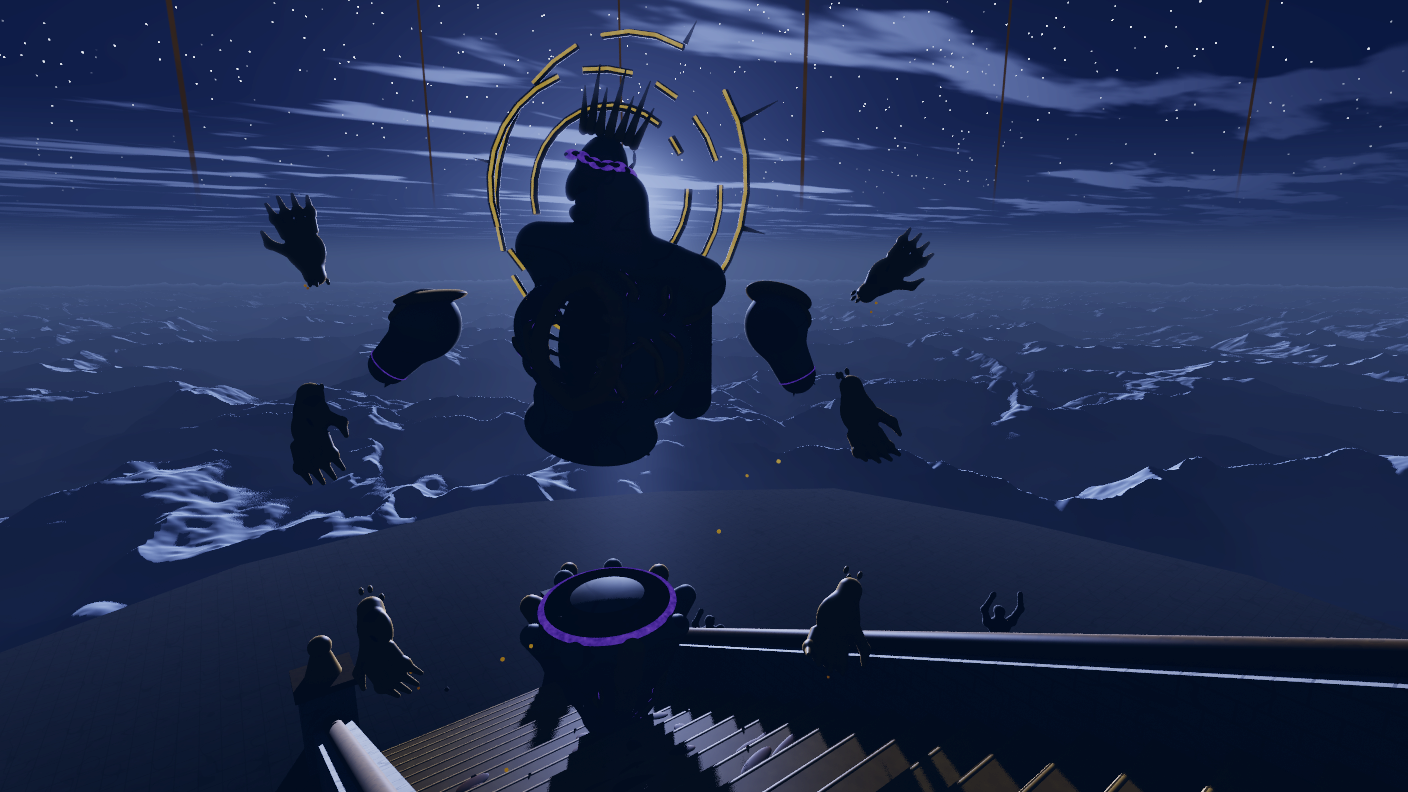
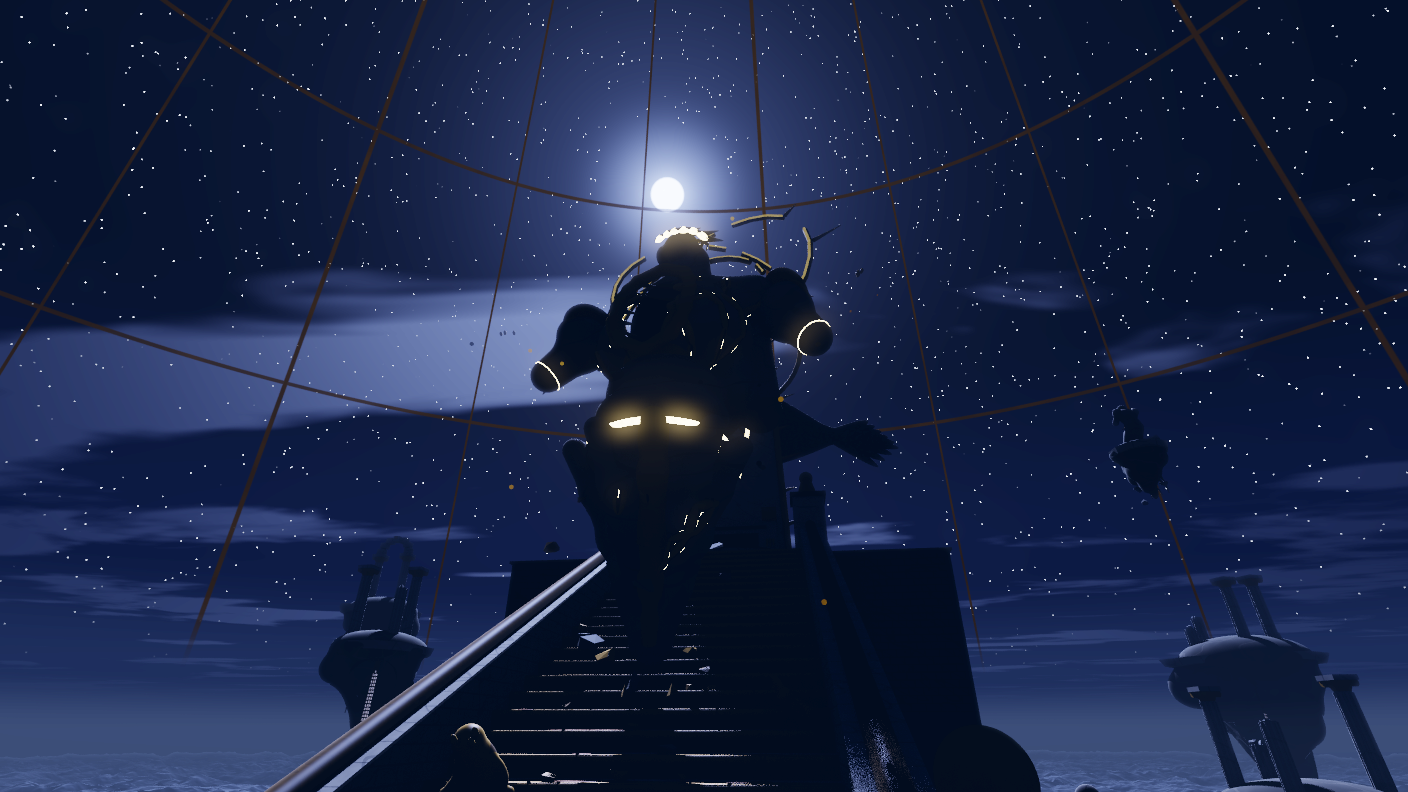
Cine 3D acto_7 pulido: Aun-Saar se parte sobre la escalinata y la Corona en el escalón
- p1_cae: el dios domina el cuadro desde abajo de la escalinata, a contraluz de la luna; grietas de luz tibia que
  lo recorren, pedazos de oro y mármol que se desprenden y caen a los escalones; las seis manos ya no orbitan (se
  sacan del modelo por la muñeca de oro viejo) y cuatro quedan tiradas en los escalones de abajo. La boca del
  pecho se apaga en su capa de luz.
- p2_corona: plano medio-bajo desde la escalinata: la Corona en el escalón 24 como sujeto central con su fuego
  bajito, la sangre dorada que corre por las tabicas hacia la cámara (regueros), el trono vacío en silueta
  detrás; sin piso a la vista.

Claude-Session: https://claude.ai/code/session_01JyeqgYaNCz4cU9RBqiqVkS

diff --git a/src/engine/gotico/cine3d_actos_c.ts b/src/engine/gotico/cine3d_actos_c.ts
@@ -81,6 +81,8 @@ M.a7_sangre = { rampa: ['#0c0101', '#1a0302', '#2a0604', '#3c0906', '#520e08', '
 M.a7_corona = { rampa: ['#1c1006', '#33200b', '#4e3412', '#6c4b1a', '#8c6424', '#ab7e30', '#c89a42', '#e2bb62'], ruido: 0.18, escala: 0.6, brillo: 1.2, patron: (p) => (Math.abs(Math.sin(p[2] * 2.6 + Math.sin(p[0] * 0.9) * 1.5)) < 0.08 ? -0.15 : 0) };
 M.a7_corona_ascua = { rampa: ['#5a1404', '#8a2a06', '#b84a0e', '#e07a1e', '#ffaa40'], ruido: 0.4, escala: 0.8, emite: true };
 /** La Brasa en el pecho del rey de ceniza: rojo hondo que late. */
+/** La sangre del rey de ceniza: roja honda que arde apenas, como la Brasa (se ve correr de noche). */
+M.a7_sangre_ascua = { rampa: ['#1a0201', '#2e0402', '#460804', '#600c05', '#7a1206'], ruido: 0.3, escala: 0.5, emite: true };
 M.a7_brasa = { rampa: ['#3a0602', '#6a0e04', '#9a1c06', '#c8320a', '#ff5a14'], ruido: 0.4, escala: 0.5, emite: true };
 /** La luz blanca que sale de la Corona partida (Mira). */
 M.a7_luz_blanca = { rampa: ['#c8ccd8', '#dde2ee', '#eef2fa', '#fafcff', '#ffffff'], ruido: 0.2, escala: 0.4, emite: true };
@@ -305,7 +307,7 @@ function atmCielo(modo: ModoCielo, o: { luna?: V3 } = {}): Atmosfera {
   const luz = fria ? hexLin('#b4c2dc') : hexLin('#aebeff'), oroJ = fria ? hexLin('#8a96a8') : ceniza ? hexLin('#ff5a1e') : hexLin('#c89a42');
   const brilloLuna = (d: V3) => { const g = Math.max(0, dot3(d, L)); return 0.5 * Math.pow(g, 400) + 0.08 * Math.pow(g, 30) + 0.025 * Math.pow(g, 4); };
   // el resplandor rojo bajo del rey de ceniza (del lado del trono, al norte = +y)
-  const brasaN = (d: V3) => (ceniza ? Math.pow(Math.max(0, d[1] * 0.9 + 0.1), 3) * Math.exp(-Math.max(0, d[2]) * 5) * 0.35 : 0);
+  const brasaN = (d: V3) => (ceniza ? Math.pow(Math.max(0, d[1] * 0.9 + 0.1), 2) * Math.exp(-Math.max(0, d[2]) * 2.4) * 0.55 : 0);
   const kAire = (e: number) => 0.55 + 0.45 * suave(0, 0.12, e);
   const aire = (d: V3): C3 => {
     const e = Math.min(0.03, Math.max(-0.2, d[2])), b = gradiente(pars, e), k = brilloLuna(norm([d[0], d[1], Math.max(0, e)])) * kAire(e), r = brasaN(d);
@@ -569,30 +571,57 @@ function enCache<T>(f: (w: number, h: number) => T): (w: number, h: number) => T
 
 // ================================================================== ACTO 7: cae Aun-Saar, queda la Corona
 /** Dónde se parte Aun-Saar: sobre el escalón 13, flotando; mira a la cámara de p1 (de la izquierda, abajo). */
-const DIOS = { x: -40, y: 70, k: 1.3, giro: 58 };
-const CAM_P1 = { pos: [150, 430, 420] as V3, mira: [-40, 70, 350] as V3, fov: 58, sx: 0.42, sy: 0.47, luna: dirAz(240, 4) };
+const DIOS = { x: -10, y: 120, k: 1.55, giro: -98 };
+/** Desde abajo de la escalinata, bajo: el dios domina el cuadro, la luna detrás de su cabeza. */
+const CAM_P1 = { pos: [80, -300, 110] as V3, mira: [-10, 120, 360] as V3, fov: 60, sx: 0.46, sy: 0.47, luna: dirAz(102, 46) };
 /** Centro (promedio) de las piezas de un material en un grupo. */
 function centroMat(esc: EscenaCine, g: number, mats: string[]): V3 | null {
-  let s: V3 = [0, 0, 0], n = 0;
-  esc.piezas.forEach((p, i) => {
-    if (esc.grupoDe[i] !== g || !mats.includes(p.mat)) return;
-    const c: V3 = p.k === 'elip' ? p.c : p.k === 'cono' ? p.o : p.k === 'masa' ? (p.esf.slice(0, 3) as V3) : p.pts.reduce((a, q) => add(a, q, 1 / p.pts.length), [0, 0, 0] as V3);
-    s = add(s, c); n++;
-  });
-  return n ? [s[0] / n, s[1] / n, s[2] / n] : null;
+  let t: V3 = [0, 0, 0], n = 0;
+  esc.piezas.forEach((p, i) => { if (esc.grupoDe[i] === g && mats.includes(p.mat)) { t = add(t, centroPieza(p)); n++; } });
+  return n ? [t[0] / n, t[1] / n, t[2] / n] : null;
+}
+/** Centro de una pieza. */
+const centroPieza = (p: Pieza): V3 => (p.k === 'elip' ? p.c : p.k === 'cono' ? p.o : p.k === 'masa' ? (p.esf.slice(0, 3) as V3) : p.pts.reduce((a, q) => add(a, q, 1 / p.pts.length), [0, 0, 0] as V3));
+/**
+ * Aun-Saar al partirse, sin las seis manos que orbitan (se reconocen por la muñeca de oro viejo de su masa): devuelve
+ * el cuerpo y cada mano con sus esquirlas, por separado, en las coordenadas del modelo.
+ */
+function diosSinManos(f: number): { cuerpo: Pieza[]; manos: { ps: Pieza[]; c: V3 }[] } {
+  const ps = piezasDe('jefe_aun_saar_morir', 'se', 1, f);
+  const centros = ps.filter((p) => p.k === 'masa' && p.comps.some((q) => q.mat === 'j2_oro_viejo')).map((p) => centroPieza(p));
+  const manos = centros.map((c) => ({ ps: [] as Pieza[], c })), cuerpo: Pieza[] = [];
+  for (const p of ps) {
+    const q = centroPieza(p), i = centros.findIndex((c) => Math.hypot(q[0] - c[0], q[1] - c[1], q[2] - c[2]) < 24);
+    if (i >= 0) manos[i].ps.push(p); else cuerpo.push(p);
+  }
+  return { cuerpo, manos };
 }
 function armarP1(w: number, h: number): Cielo {
   const { esc, atm, fuegos, plumas } = armarCielo('noche', { luna: CAM_P1.luna });
-  // Aun-Saar partido (el cuadro 4 de su muerte: los pedazos separados flotan, todavía no caen)
-  const zD = zEscalon(escalonEn(DIOS.y)) - 30;
-  const g = esc.poner(piezasDe('jefe_aun_saar_morir', 'se', 1, 4), { x: DIOS.x, y: DIOS.y, z: zD, giro: DIOS.giro, k: DIOS.k }, { nieve: 0 });
-  // la boca del pecho: su luz va por el canal 1 (en el fondo, apagada; la capa de luz la apaga de a poco en el plano)
-  const boca = centroMat(esc, g, ['j2_luz']) ?? [DIOS.x, DIOS.y, zD + 200];
-  esc.emision.j2_luz = { k: 6, canal: 1 }; esc.emision.j2_luz_oro = { k: 0.25 };
-  esc.emision.j2_borde_vacio = { k: 0.5 };
-  esc.luces.push({ p: add(boca, [14, -18, 0]), c: hexLin('#ffd890'), k: 3.5, r: 55, canal: 1, sombra: true, envuelve: 0.3, halo: 0.0006 });
-  // sangre dorada que chorrea de los pedazos sobre los escalones de abajo
-  icor(esc, 8, 15, 120, 13);
+  // el cuadro 2 de su muerte: las grietas se abren y los pedazos apenas se separan; encima de los escalones del medio
+  const zD = zEscalon(escalonEn(DIOS.y)) - 10, d = diosSinManos(2);
+  const g = esc.poner(d.cuerpo, { x: DIOS.x, y: DIOS.y, z: zD, giro: DIOS.giro, k: DIOS.k }, { nieve: 0 });
+  // las manos ya cayeron: tres tiradas en los escalones de abajo, de dorso o de palma, y las otras rodando más abajo
+  const lugares: [number, number, number][] = [[-70, 6, 0.4], [60, 3, 2.2], [-20, 1, 4.1], [90, 9, 5.3]];
+  lugares.forEach(([x, i, ang], j) => {
+    const m = d.manos[j]; if (!m) return;
+    const ps = moverPiezas(m.ps.map((p) => p), giroEje(norm([az(j, 951) - 0.5, az(j, 952) - 0.5, 0.15]), ang), m.c, [-m.c[0], -m.c[1], -m.c[2]]);
+    esc.poner(ps, { x, y: yEscalon(i) + ESC.huella * 0.5, z: zEscalon(i) + 6, giro: az(j, 953) * 360, k: DIOS.k * 0.95 }, { nieve: 0 });
+  });
+  // pedazos de oro y de mármol que se desprenden: unos ya en los escalones, otros todavía cayendo bajo el dios
+  const pedazos: Pieza[] = [];
+  for (let i = 0; i < 46; i++) {
+    const cae = i < 18, e = cae ? 4 + Math.floor(az(i, 961) * 9) : Math.floor(az(i, 961) * 12), x = DIOS.x + (az(i, 962) - 0.5) * (cae ? 160 : 190);
+    const z = cae ? zD + 30 + az(i, 963) * 150 : zEscalon(e) + 2, y = cae ? DIOS.y + (az(i, 964) - 0.5) * 80 : yEscalon(e) + 4 + az(i, 964) * 14;
+    pedazos.push(peñasco(x, y, z, 2.5 + az(i, 965) * (cae ? 7 : 5), 970 + i, az(i, 966) < 0.55 ? 'j2_oro' : 'j2_marmol'));
+  }
+  esc.ponerMundo(pedazos, { nieve: 0 });
+  // las grietas: luz que lo recorre (el borde del vacío encendido, tibio y blanco) y la boca del pecho por el canal 1
+  const boca = centroMat(esc, g, ['j2_luz']) ?? [DIOS.x, DIOS.y, zD + 230];
+  esc.emision.j2_borde_vacio = { k: 3.2, color: hexLin('#ffe2a8') };
+  esc.emision.j2_luz = { k: 6, canal: 1 }; esc.emision.j2_luz_oro = { k: 0.2 };
+  esc.luces.push({ p: add(boca, [0, -24, 0]), c: hexLin('#ffd890'), k: 3, r: 60, canal: 1, sombra: true, envuelve: 0.3, halo: 0.0006 });
+  icor(esc, 0, 11, 160, 13, DIOS.x);
   const C = CAM_P1;
   return { esc, atm, cam: camaraEncuadre(C.pos, C.mira, C.fov, C.sx, C.sy, w, h), fuegos, plumas };
 }
@@ -635,24 +664,42 @@ function charcos(esc: EscenaCine, c: V3, r: number, n: number, s: number, o: { h
 }
 
 /** La Corona en la grada de abajo del trono vacío, de canto contra la de arriba, entre la sangre dorada del dios. */
-const CORONA_P2: V3 = [24, TRONO.y + 10 - GRADAS[0] + 12, PLAT.z + 10];
-const CAM_P2 = { pos: [-34, TRONO.y - 196, PLAT.z + 46] as V3, fov: 46, sx: 0.58, sy: 0.64, luna: dirAz(70, 24) };
+/**
+ * Regueros que bajan por la escalinata hacia la cámara: en cada tabica (del escalón i1 al i0) una lámina de líquido
+ * pegada a la cara, el labio que se derrama por la nariz y el charco que se junta en la huella de abajo. `xs` son los
+ * hilos (x donde nacen); cada uno se corre un poco y se ensancha al bajar.
+ */
+function regueros(esc: EscenaCine, i0: number, i1: number, xs: number[], mat: string, s: number) {
+  const ps: Pieza[] = [];
+  xs.forEach((x0, j) => {
+    let x = x0;
+    for (let i = i1; i >= i0; i--) {
+      const w = 1.3 + (i1 - i) * 0.1 + az(s + j, i) * 0.9, y = yEscalon(i), z = zEscalon(i);
+      ps.push(caja(x, y - 0.3, z - ESC.contra - 0.2, w, 0.7, ESC.contra + 0.4, { mat }), cilindro(x - w / 2, y + 1.3, z - 2.2, 2.55, w, { mat, eje: [1, 0, 0] }));
+      if (i > 0) ps.push(elipsoide(x + (az(s + j, i + 40) - 0.5) * 3, y - 4 - az(s + j, i + 50) * 3, zEscalon(i - 1) + 0.05, w * 0.9 + 1, 3 + az(s + j, i + 60) * 2, 0.4, { mat }));
+      x += (az(s + j, i + 70) - 0.5) * 7;
+    }
+  });
+  esc.ponerMundo(ps, { nieve: 0 });
+}
+
+/** La Corona en un escalón alto de la escalinata, tumbada contra la tabica del de arriba; el trono vacío detrás. */
+const E_P2 = 24, CORONA_P2: V3 = [6, yEscalon(E_P2) + 12, zEscalon(E_P2)];
+const CAM_P2 = { pos: [-8, yEscalon(17) + 14, zEscalon(17) + 22] as V3, fov: 31, sx: 0.5, sy: 0.62, luna: dirAz(93, 36) };
 function armarP2(w: number, h: number): Cielo {
   const { esc, atm, fuegos, plumas } = armarCielo('noche', { luna: CAM_P2.luna });
   const R = 9, c = CORONA_P2;
-  esc.ponerMundo(moverPiezas(corona(R), giroEje(norm([1, 0.25, 0]), -0.95), [0, 0, 0], add(c, [0, 0, 6])), { nieve: 0 });
+  esc.ponerMundo(moverPiezas(corona(R), giroEje(norm([1, 0.15, 0]), -0.75), [0, 0, 0], add(c, [0, 0, 5])), { nieve: 0 });
   // su fuego bajito: lenguas chicas que salen del aro, y su luz cálida (canal 1, late) que moja el oro y la sangre
   for (const [dx, dy, dz, an, al, s] of [[-4, 2, 12, 4, 10, 701], [3, 4, 14, 3.4, 8, 702], [6, -1, 9, 3, 7, 703], [-7, -2, 8, 2.6, 6, 704]] as [number, number, number, number, number, number][]) fuegos.push({ p: add(c, [dx, dy, dz]), ancho: an, alto: al, semilla: s, tipo: 'corona', k: 2.4 });
-  esc.luces.push({ p: add(c, [0, -8, 14]), c: hexLin('#ff9a3a'), k: 2.6, r: 22, canal: 1, sombra: true, envuelve: 0.35, halo: 0.0007 });
+  esc.luces.push({ p: add(c, [0, -10, 14]), c: hexLin('#ff9a3a'), k: 2.6, r: 24, canal: 1, sombra: true, envuelve: 0.35, halo: 0.0007 });
   esc.emision.a7_corona_ascua = { k: 3.5, canal: 1 };
-  // la sangre: charcos en las gradas y en el piso de la plataforma, y el reguero que baja a la escalinata
-  charcos(esc, [c[0] - 10, c[1] - 8, PLAT.z + 10], 46, 12, 31);
-  charcos(esc, [c[0] - 16, c[1] - 30, PLAT.z], 30, 10, 32, { hacia: [-10, PLAT.y0 + 4, PLAT.z] });
-  charcos(esc, [8, TRONO.y - 20, PLAT.z + 20], 30, 6, 33);
-  icor(esc, 19, 27, 120, 21, -10);
-  // el filo de contraluz encendía el piso al ras: acá, más fino
+  // la sangre dorada: baja del trono por la escalinata, pasa junto a la Corona y corre hacia la cámara
+  esc.emision.a7_icor_luz = { k: 0.3 }; esc.emision.j2_borde_vacio = { k: 0.12 };
+  regueros(esc, 15, 27, [-24, 3, 26, 52], 'a7_icor_luz', 31);
+  charcos(esc, [0, TRONO.y - 40, PLAT.z], 40, 8, 33);
   atm.borde = { ...atm.borde, k: 1.2 };
-  const cam = camaraEncuadre(CAM_P2.pos, add(c, [0, 0, 10]), CAM_P2.fov, CAM_P2.sx, CAM_P2.sy, w, h);
+  const cam = camaraEncuadre(CAM_P2.pos, add(c, [0, 0, 9]), CAM_P2.fov, CAM_P2.sx, CAM_P2.sy, w, h);
   return { esc, atm, cam, fuegos, plumas };
 }
 
@@ -800,8 +847,9 @@ function armarCripta(w: number, h: number, o: { cam: 'v2' | 'v3'; latido?: boole
 }
 
 // ================================================================== CIELO: Mira parte la Corona
-const MIRA = { x: -40, y: -260, giro: 90 };
-const CAM_C1 = { pos: [64, -404, 30] as V3, mira: [-40, -260, 70] as V3, fov: 48, sx: 0.42, sy: 0.42, luna: dirAz(124, 9) };
+/** Mira en la cima de la escalinata (el borde de la plataforma, sin el trono detrás), de cara a la cámara que sube. */
+const MIRA = { x: 0, y: PLAT.y0 + 8, z: PLAT.z, giro: -90 };
+const CAM_C1 = { pos: [30, yEscalon(9) + 10, zEscalon(9) + 62] as V3, mira: [0, PLAT.y0 + 8, PLAT.z + 44] as V3, fov: 32, sx: 0.5, sy: 0.55, luna: dirAz(116, 15) };
 /** Mira de pie con los brazos arriba: las dos manos parten la Corona sobre su cabeza; el pelo y el vestido al viento. */
 function mira(p: number): { ps: Pieza[]; corona: V3 } {
   const P: Arti = {
@@ -820,10 +868,10 @@ function mira(p: number): { ps: Pieza[]; corona: V3 } {
   return { ps, corona: cor };
 }
 function armarC1(w: number, h: number): Cielo {
-  const { esc, atm, fuegos, plumas } = armarCielo('noche', { luna: CAM_C1.luna });
-  const m = mira(0.22), g = esc.poner(m.ps, { x: MIRA.x, y: MIRA.y, z: 0, giro: MIRA.giro, k: 1 }, { nieve: 0 });
+  const { esc, atm, fuegos, plumas } = armarCielo('noche', { luna: CAM_C1.luna, sinTrono: true });
+  const m = mira(0.22), g = esc.poner(m.ps, { x: MIRA.x, y: MIRA.y, z: MIRA.z, giro: MIRA.giro, k: 1.05 }, { nieve: 0 });
   void g;
-  const gr = (MIRA.giro * Math.PI) / 180, cw: V3 = [MIRA.x + m.corona[0] * Math.cos(gr) - m.corona[1] * Math.sin(gr), MIRA.y + m.corona[0] * Math.sin(gr) + m.corona[1] * Math.cos(gr), m.corona[2] + 3];
+  const gr = (MIRA.giro * Math.PI) / 180, cw: V3 = [MIRA.x + (m.corona[0] * Math.cos(gr) - m.corona[1] * Math.sin(gr)) * 1.05, MIRA.y + (m.corona[0] * Math.sin(gr) + m.corona[1] * Math.cos(gr)) * 1.05, MIRA.z + (m.corona[2] + 3) * 1.05];
   // la luz blanca (canal 1): en el fondo, un hilo; la capa de luz la abre hasta llenar el cuadro
   esc.emision.a7_luz_blanca = { k: 6, canal: 1 };
   esc.luces.push({ p: cw, c: hexLin('#eef2ff'), k: 6, r: 60, canal: 1, sombra: true, envuelve: 0.3, halo: 0.0012 });
@@ -921,32 +969,38 @@ function heroeSentado(o: { brasa?: boolean; fria?: boolean }): Pieza[] {
   });
   // la Marca apagada: donde ardía la Brasa queda una costra gris de ceniza
   if (o.fria) ps.push(elipsoide(P.pecho[0] + 5.4, P.pecho[1], P.pecho[2] - 1, 1.5, 2.8, 3.4, { mat: 'cel_ceniza', tono: -0.1 }));
+  // los ojos del rey de ceniza: dos brasas chicas bajo la Corona
+  if (o.brasa) for (const s of [-1, 1]) ps.push(elipsoide(P.cab[0] + 3.5, s * 1.35, P.cab[2] + 0.5, 0.45, 0.75, 0.4, { mat: 'a7_brasa' }));
   return ps;
 }
-const CAM_R1 = { pos: [-60, 372, 366] as V3, fov: 40, sx: 0.56, sy: 0.44 };
+/** Los dos finales del trono riman: la misma cámara baja, desde los escalones, con el rey arriba en silueta. */
+const CAM_TRONO = { pos: [-8, yEscalon(21) + 12, zEscalon(21) + 16] as V3, fov: 36, sx: 0.5, sy: 0.34 };
 /** El trono con su rey: el héroe sentado, su Corona, su Brasa (o su Marca apagada) y la sangre que baja (o la escarcha). */
 function armarTrono(w: number, h: number, fria: boolean): Cielo {
-  const { esc, atm, fuegos, plumas } = armarCielo(fria ? 'fria' : 'ceniza', { nieve: fria, luna: fria ? dirAz(100, 24) : dirAz(84, 30) });
+  const { esc, atm, fuegos, plumas } = armarCielo(fria ? 'fria' : 'ceniza', { nieve: fria, luna: fria ? dirAz(97, 31) : dirAz(84, 30) });
   const T = TRONO, zs = T.z + T.asiento;
   esc.poner(heroeSentado({ brasa: !fria, fria }), { x: T.x, y: T.y + 4, z: zs, giro: -90, k: 1.15 }, { nieve: fria ? 0.6 : 0 });
   const pecho: V3 = [T.x, T.y + 4 - (-4.5 + 5.6) * 1.15, zs + 19 * 1.15], cabeza: V3 = [T.x, T.y + 4 + 3.6 * 1.15, zs + 32.5 * 1.15];
+  // una luz entre el rey y el respaldo (sin sombra hacia la cámara): enciende el mármol detrás y lo deja en silueta
+  esc.luces.push({ p: [T.x, T.y + 18, zs + 64], c: fria ? hexLin('#8ea4cc') : hexLin('#d0381c'), k: fria ? 2 : 3.4, r: 30, envuelve: 0.1, halo: fria ? 0 : 0.0005 });
   if (!fria) {
-    // la Brasa: su luz roja en el pecho (canal 1, late con el fuego) y la Corona que arde
+    // la Brasa y los ojos (canal 1, laten con el fuego) y la Corona que arde
     esc.emision.a7_brasa = { k: 5, canal: 1 };
-    esc.luces.push({ p: add(pecho, [0, -16, -2]), c: hexLin('#ff3a10'), k: 2.6, r: 13, canal: 1, sombra: true, envuelve: 0.3, halo: 0.0008 });
+    esc.luces.push({ p: add(pecho, [0, -10, -2]), c: hexLin('#ff3a10'), k: 1.6, r: 9, canal: 1, envuelve: 0.3, halo: 0.0006 });
     esc.emision.a7_corona_ascua = { k: 4, canal: 1 };
     for (const [dx, dz, an, al, s] of [[-3, 2, 2.6, 7, 711], [2.5, 3, 2.4, 6, 712], [0, 4, 3, 9, 713]] as [number, number, number, number, number][]) fuegos.push({ p: add(cabeza, [dx, 0, dz]), ancho: an, alto: al, semilla: s, tipo: 'corona', k: 2.4 });
     fuegos.push({ p: add(pecho, [0, -7, -3]), ancho: 5, alto: 10, semilla: 714, tipo: 'pecho', k: 2 });
-    // la sangre: baja del asiento por las gradas y corre por la escalinata
-    charcos(esc, [T.x - 6, T.y - T.fondo / 2 - 6, PLAT.z + 20], 26, 8, 71, { mat: 'a7_sangre' });
-    charcos(esc, [T.x - 10, T.y - 60, PLAT.z + 10], 40, 10, 72, { mat: 'a7_sangre', hacia: [-8, PLAT.y0 + 2, PLAT.z + 10] });
-    charcos(esc, [T.x, PLAT.y0 + 30, PLAT.z], 46, 9, 73, { mat: 'a7_sangre', hacia: [-4, PLAT.y0 + 2, PLAT.z] });
-    icor(esc, 8, 27, 70, 74, -6, 'a7_sangre');
+    // la sangre: baja del asiento por las gradas y la plataforma, y corre por la escalinata hacia la cámara
+    esc.emision.a7_sangre_ascua = { k: 0.35, canal: 1 };
+    charcos(esc, [T.x - 6, T.y - T.fondo / 2 - 6, PLAT.z + 20], 22, 8, 71, { mat: 'a7_sangre_ascua' });
+    charcos(esc, [T.x - 6, T.y - 70, PLAT.z + 10], 30, 8, 72, { mat: 'a7_sangre_ascua', hacia: [-8, PLAT.y0 + 2, PLAT.z + 10] });
+    regueros(esc, 16, 27, [-26, -4, 14, 36], 'a7_sangre_ascua', 74);
   } else {
+    // escarcha y aliento: la Corona sin fuego, el vaho que sale de la boca, la luna fría detrás
     esc.emision.a7_corona_ascua = { k: 0 };
-    esc.luces.push({ p: add(cabeza, [0, -30, 30]), c: hexLin('#9ab0d8'), k: 0.5, r: 60, envuelve: 0.2 });
+    plumas.push({ base: add(cabeza, [0, -5, -1.5]), alto: 16, r0: 1.2, r1: 7, viento: [0, -0.9, 0], dens: 0.09, humo: [0.55, 0.6, 0.68], semilla: 731, sube: 5, escala: 1 / 4, sol: 0.4 });
   }
-  const C = CAM_R1, cam = camaraEncuadre(fria ? [26, 330, 352] : C.pos, [T.x, T.y, zs + 34], fria ? 36 : C.fov, fria ? 0.5 : C.sx, fria ? 0.5 : C.sy, w, h);
+  const C = CAM_TRONO, cam = camaraEncuadre(C.pos, [T.x, T.y, zs + 30], C.fov, C.sx, C.sy, w, h);
   return { esc, atm, cam, fuegos, plumas };
 }
 
@@ -1080,7 +1134,7 @@ const V3_: Plano3D = {
 const C1: Plano3D = {
   id: 'c1_mira', paralaje: 0.9, particulas: 'polvo', armar: enCache(armarC1), revelado: REV_NOCHE, ss: 4,
   // la luz blanca: un hilo en el fondo; la capa de luz la abre hasta el blanco del corte
-  flickBase: 0.03,
+  flickBase: 0.1,
   variantes: [{ id: 'luz_blanca', flick: 1, escala: 2, anim: { tipo: 'tiempo', claves: [[0, 0], [2.4, 0.05], [3.6, 0.2], [4.6, 0.45], [5.6, 0.75], [6.4, 1]] } }],
   qa: [0.5, 3.6, 5.2, 6.6],
 };
